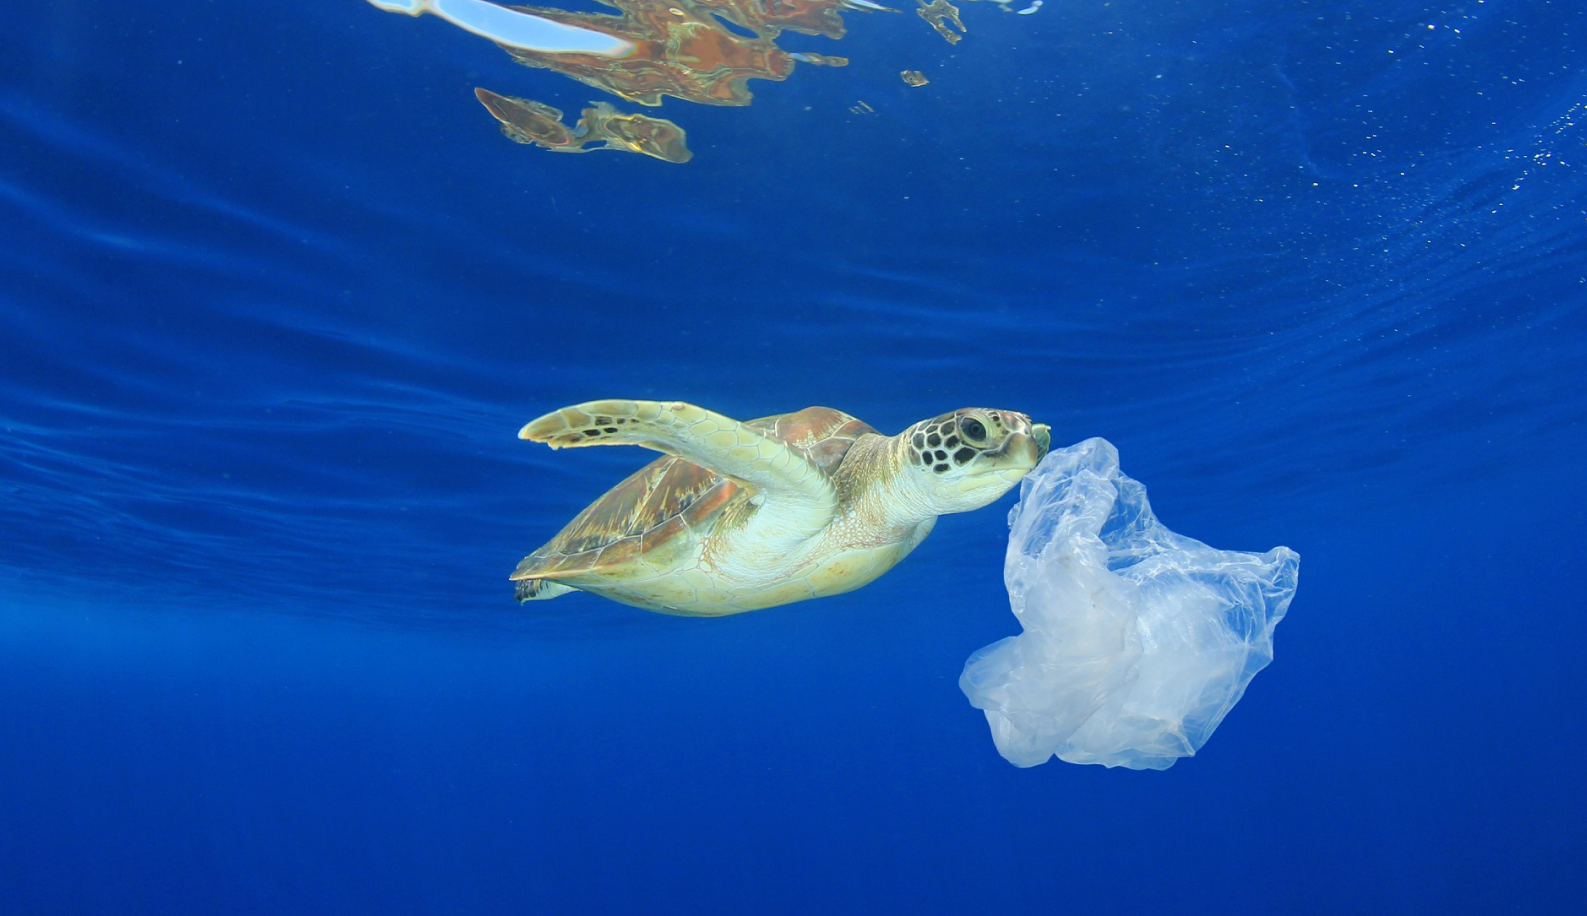
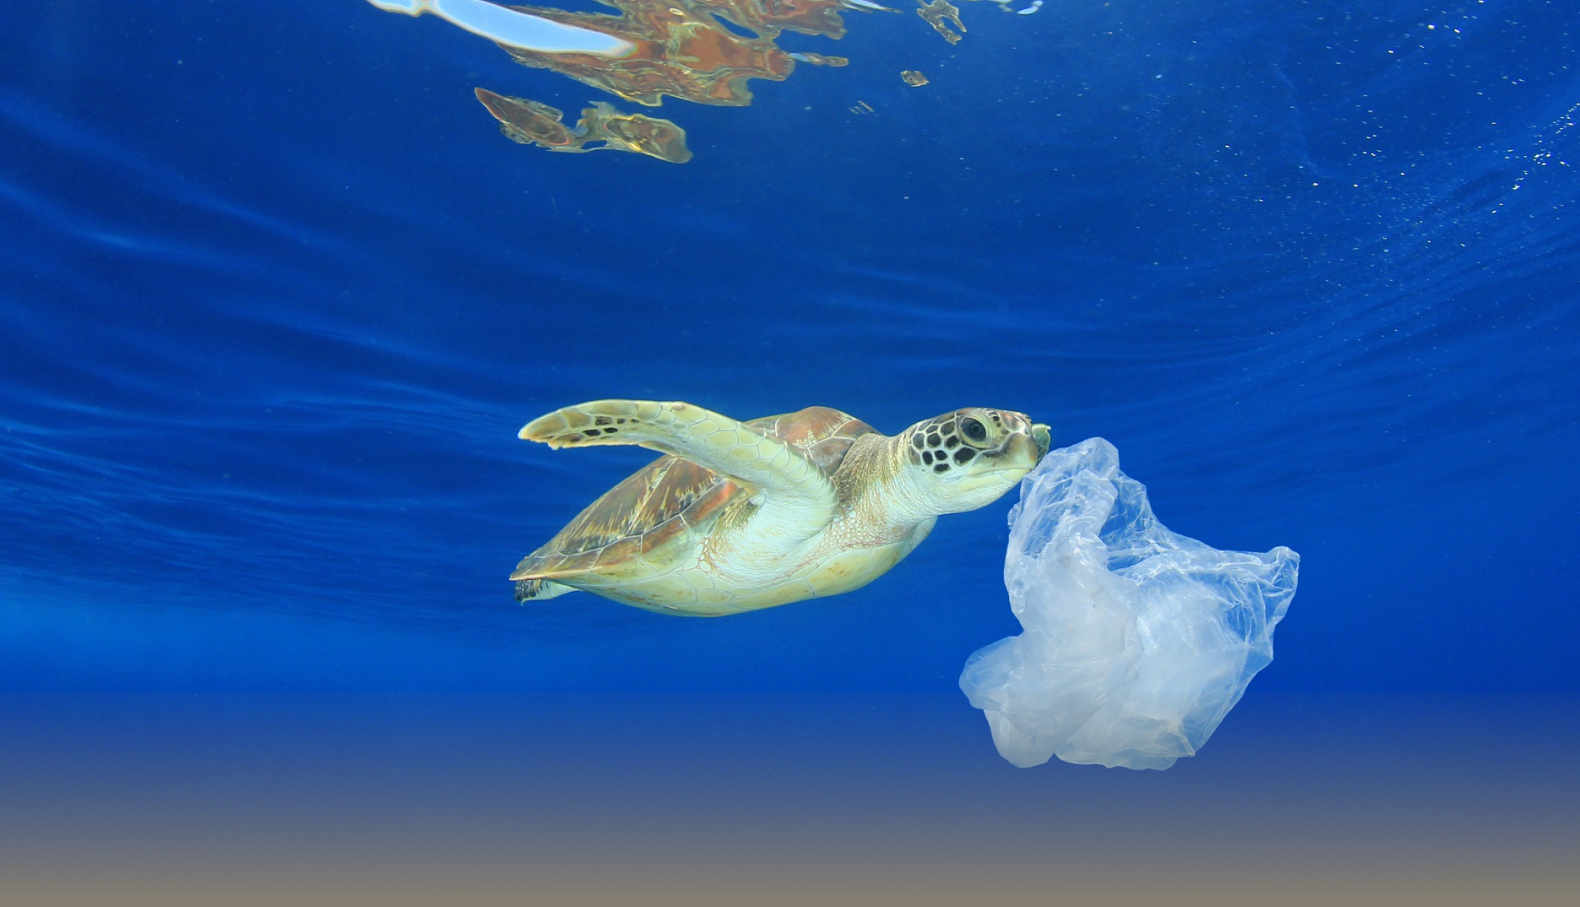
criando ultima secao e ajustando as outras

diff --git a/GlobalSolution/index.html b/GlobalSolution/index.html
@@ -19,8 +19,8 @@
               <li><a href="#section2" class="navt">Tecnologias</a></li>
               <li><a href="#section3" class="navt">Objetivos</a></li>
               <li><a href="#section4" class="navt">Impactos</a></li>
-              <li><a href="#section5" class="navt">Benefícios</a></li>
-              <li><a href="#seection6" class="navt">Ajudas</a></li>
+              <li><a href="#banner2" class="navt">Benefícios</a></li>
+              <li><a href="#section6" class="navt">Ajudas</a></li>
               <img src="./src/img/Line 42.png">
               <li><a href="./login.html" class="navt">Login</a></li>
             </ul>
@@ -88,15 +88,19 @@
         </div>
     </section>
 
-    <section id="section5">
-        <div>
-            <h1 id="titulo5">Quem será impactado?</h1>
-            <p id="texto5">A princípio, a população costeira será a mais impactada por nosso projeto, contudo, o objetivo é alcançar toda população.</p>
-        </div>
-    </section>
     <section id="banner2">
+        <h1 id="titulo5">Quem será impactado?</h1>
+            <p id="texto5">A princípio, a população costeira será a mais impactada por nosso projeto, contudo, o objetivo é alcançar toda população.</p>
         <img id="imgBanner2">
     </section>
+
+    <section id="section6">
+        <div>
+            <h1 id="titulo6">Como a solução mudará seu dia a dia?</h1>
+            <p id="texto6">Um grande problema a ser resolvido é a contaminação dos peixes. Nossa solução diminuiria drasticamente esse problema, levando um peixe sem plásticos à sua mesa de jantar.</p>
+        </div>
+    </section>
+
     <footer>
         <section id="logos">
           <a href="https://www.g20.org/pt-br/g20-social/grupos-de-engajamento/oceans-20" target="_blank">

diff --git a/GlobalSolution/src/css/estilo.css b/GlobalSolution/src/css/estilo.css
@@ -4,6 +4,7 @@
     --color--2: black;
     --color--3: rgb(1, 4, 39);
     --color--4: rgba(1, 29, 62, 1);
+    --color--footer: rgb(90, 87, 80);
 }
 *{
     margin: 0;
@@ -224,7 +225,6 @@ nav ul img{
 #section4{
     height: 1000px;
     background-image: url(../img/praia.png);
-    background-color: white;
 }
 #section4 img{
     width: 100%;
@@ -251,20 +251,49 @@ nav ul img{
     height: 400px;
 }
 #titulo5{
-    text-align: center;
+    position: absolute;
     color: var(--color--2);
+    left: 10%;
     font-size: 60px;
     font-family: "Hina Mincho", serif;
+    width: 600px;
+    padding-top: 130px;
 }
 #texto5{
+    position: absolute;
+    color: var(--color--2);
+    left: 3%;
+    text-align: center;
+    width: 700px;
+    font-size: 35px;
+    margin-top: 220px;
+}
+#section6{
+    background-image: url(../img/Frame\ 3.png);
+    height: 538px;
+    margin-top: -5PX;
+}
+#titulo6{
+    color: var(--color--2);
+    margin-left: 5%;
+    font-size: 60px;
+    font-family: "Hina Mincho", serif;
+    width: 600px;
+    padding-top: 70px;
+    text-align: center;
+}
+#texto6{
     color: var(--color--2);
     text-align: center;
+    width: 700px;
     font-size: 35px;
-    margin-top: 120px;
+    margin-left: 15PX;
+    margin-top: 16PX;
 }
 footer{
     margin-top: -7px;
     height: 90px;
+    background-color: var(--color--footer);
 }
 #logos{
     text-align: center;
